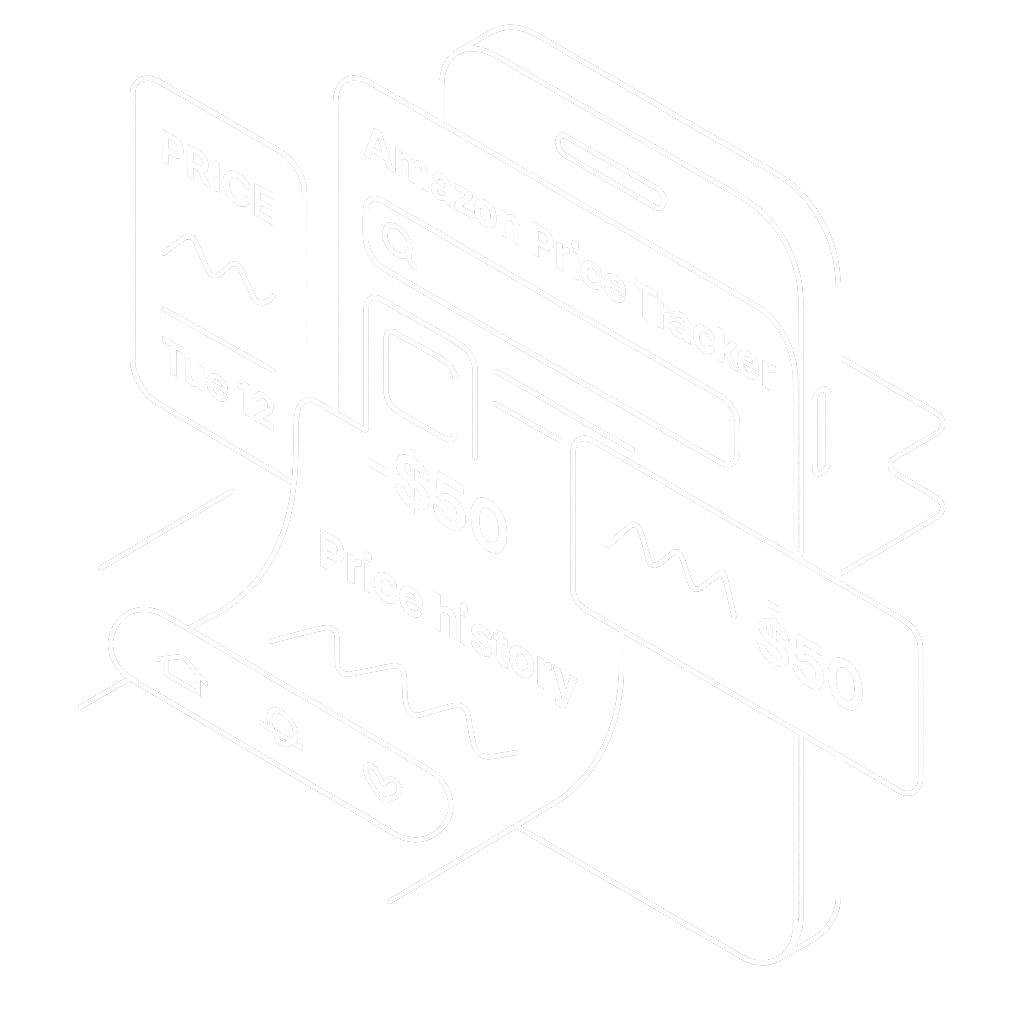
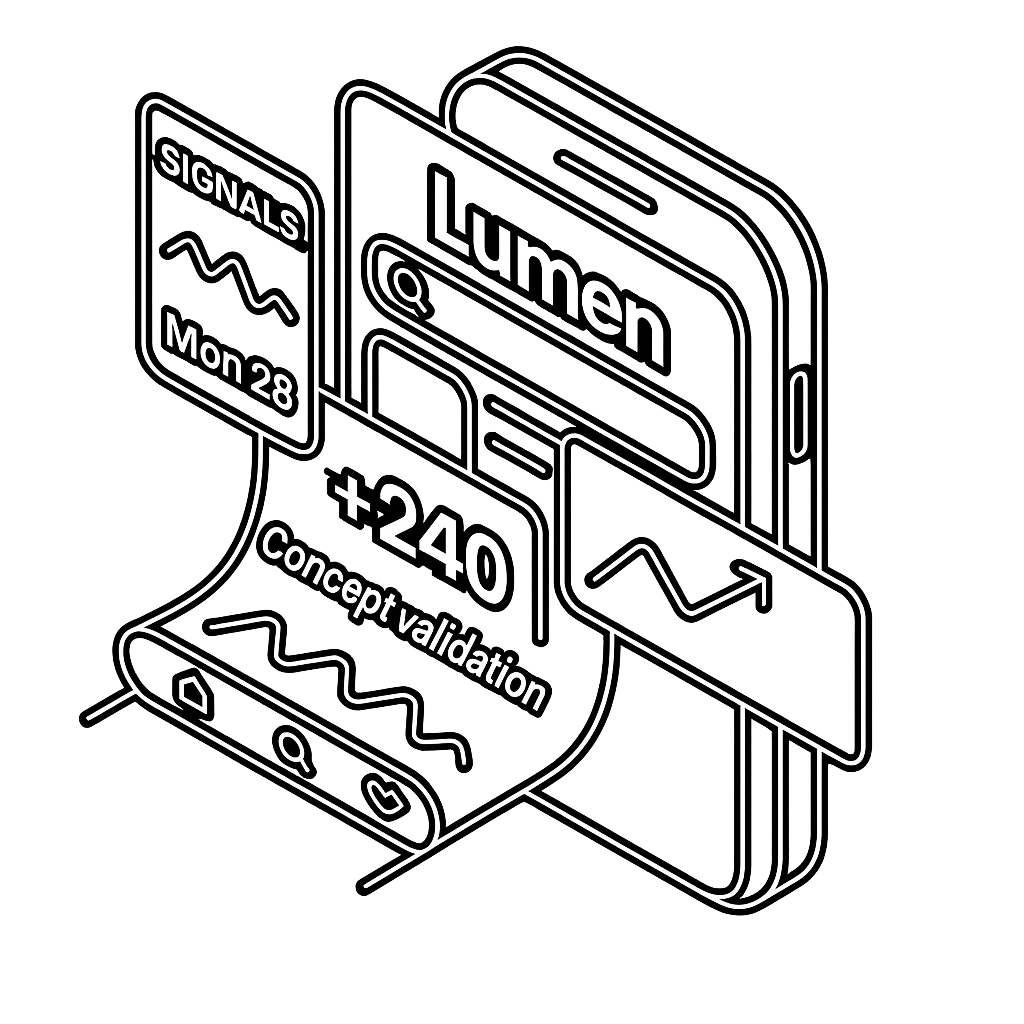
Change app concept to startup validator and change homepage

Changed region(s): [[0.0625, 0.0312, 0.875, 0.9062]]

diff --git a/home/templates/home/index.html b/home/templates/home/index.html
@@ -8,19 +8,22 @@
 {% block content %}
     <div class="home_hero">
         <div class="navbar">
-            <a href="#about"> Register </a>
-            <a href="#place"> Why use us </a>
-            <a href="https://github.com/AndyMasc/Amazon-Web-Scraper---Price-Tracker"> GitHub </a>
+            <a href="{% url 'authenticate:register' %}"> Register </a>
+            <a href="#place"> About </a>
+            <a href="https://github.com/AndyMasc/Price-Tracker"> GitHub </a>
             <a href="#dest"> Privacy </a>
         </div>
         <div class="hero-text-section">
-            <h1> Make <i> every </i> day Prime day with <span style="color:#ffb370"> Price Ping. </span> </h1>
-            <p> Track the prices of your favourite Amazon products effortlessly, and instantly get notified when their prices drop. <b> Never miss a deal again. </b> </p>
+            <h1> Lumen delivers early clarity for bold startups </h1>
+            <p> Lumen is a platform that quietly analyzes your startup ideas against the competition, to deliver clarity before commitment. </b> </p>
 
             <div class="CTA-button">
                 <a href="#about"> Start saving </a>
             </div>
         </div>
         <img src="{% static 'home/images/HeroImg.png' %}" alt="Demo Image">
+    </div>
+    <div class="ScrollDown">
+        <img src="{% static 'home/images/DownArrow.png' %}" alt="Scroll Down">
     </div>
 {% endblock %}

diff --git a/home/static/home/css/style.css b/home/static/home/css/style.css
@@ -7,12 +7,13 @@ body {
     position: fixed;
     background-color: black;
     width: 100%;
-    height: 8%;
+    height: 7%;
     justify-content: center;
     align-items: center;
     gap: 5%;
     top: 0;
     left: 0;
+    border-bottom: solid #303030;
 }
 
 .navbar a {
@@ -46,7 +47,7 @@ body {
 .home_hero h1 {
     font-family: Poppins;
     font-size: 55px;
-    font-weight: 600;
+    font-weight: 550;
     color: WhiteSmoke;
 }
 
@@ -63,7 +64,7 @@ body {
 .CTA-button {
     position: relative;
     display: flex;
-    margin-top: 6%;
+    margin-top: 7%;
 }
 
 .CTA-button a {
@@ -86,4 +87,35 @@ body {
 img {
     width: 40%;
     pointer-events: none;
+}
+
+.ScrollDown {
+    position: absolute;
+    width: 100%;
+    display: flex;
+    left: 0;
+    bottom: 0;
+    justify-content: center;
+    align-items: center;
+    margin-bottom: 5%;
+}
+
+.ScrollDown img {
+    width: 45px;
+    animation: bobbing 1.4s linear infinite;
+}
+
+@keyframes bobbing {
+    0% {
+        transform: translateY(0px);
+        animation-timing-function: ease-out;
+    }
+    50% {
+        transform: translateY(10px);
+        animation-timing-function: ease-in;
+    }
+    100% {
+        transform: translateY(0px);
+        animation-timing-function: ease-out
+    }
 }

diff --git a/authenticate/templates/authenticate/register.html b/authenticate/templates/authenticate/register.html
@@ -1,17 +1,27 @@
 {% extends 'base.html' %}
 
 {% block head %}
+    {% load static %}
 
+    <link rel="stylesheet"  href="{% static 'authenticate/css/register.css' %}">
 {% endblock %}
 
 {% block content %}
-    <div class="home_hero">
-        <h1> Register </h1>
+    <div class="title">
+        <h1> <span style="color:WhiteSmoke"> Create an account </span> </h1>
     </div>
-
-    <form method="POST" action="">
-        {% csrf_token %}
-        {{ form.as_p }}
-        <input type="submit" name="Register account">
-    </form>
+    <div class="container">
+        <div class="form">
+            <form method="POST" action="">
+                {% csrf_token %}
+                {% for field in form %}
+                    <h3> {{ field.label }} </h3>
+                    {{ field }}
+                {% endfor %}
+            </form>
+            {{ form.errors }}
+            <input type="submit" value="Register account">
+            <a href="{% url 'authenticate:login' %}"> <span style="color:WhiteSmoke"> Already registered? Log In </span> </a>
+        </div>
+    </div>
 {% endblock %}

diff --git a/templates/base.html b/templates/base.html
@@ -5,7 +5,7 @@
     <meta name="viewport"
           content="width=device-width, user-scalable=no, initial-scale=1.0, maximum-scale=1.0, minimum-scale=1.0">
     <meta http-equiv="X-UA-Compatible" content="ie=edge">
-    <title> Price Ping </title>
+    <title> Lumen </title>
 
     <style>
         @import url('https://fonts.googleapis.com/css2?family=Poppins:ital,wght@0,100;0,200;0,300;0,400;0,500;0,600;0,700;0,800;0,900;1,100;1,200;1,300;1,400;1,500;1,600;1,700;1,800;1,900&display=swap');

diff --git a/authenticate/static/authenticate/css/register.css b/authenticate/static/authenticate/css/register.css
@@ -1,0 +1,28 @@
+body {
+    background-color: black;
+    font-family: Poppins;
+}
+
+.container {
+    width: 100%;
+    height: 100%;
+    position: fixed;
+    top: 0;
+    left: 0;
+}
+
+.title {
+    position: fixed;
+    display: flex;
+    width: 100%;
+    justify-content: center;
+    align-items: center;
+    height: 8%;
+    border: dashed white;
+}
+
+.title h1 {
+    color: WhiteSmoke;
+    font-weight: 550;
+    font-size: 55px;
+}

diff --git a/authenticate/views.py b/authenticate/views.py
@@ -1,4 +1,4 @@
-from django.shortcuts import render, HttpResponse
+from django.shortcuts import render, HttpResponse, redirect
 
 # Create your views here.
 from django.contrib.auth.forms import UserCreationForm
@@ -12,7 +12,9 @@ def register(request):
         form = CreateUserForm(request.POST)
         if form.is_valid():
             form.save()
-
+            return redirect('authenticate:login')
+        else:
+            return render(request, 'authenticate/register.html', context)
     return render(request, 'authenticate/register.html', context)
 
 def login(request):

diff --git a/PriceTracker/settings.py b/PriceTracker/settings.py
@@ -44,6 +44,7 @@ INSTALLED_APPS = [
     'django.contrib.messages',
     'django.contrib.staticfiles',
 
+    'django_browser_reload',
     'home.apps.HomeConfig',
     'authenticate.apps.AuthenticateConfig',
 ]
@@ -56,6 +57,8 @@ MIDDLEWARE = [
     'django.contrib.auth.middleware.AuthenticationMiddleware',
     'django.contrib.messages.middleware.MessageMiddleware',
     'django.middleware.clickjacking.XFrameOptionsMiddleware',
+
+    "django_browser_reload.middleware.BrowserReloadMiddleware",
 ]
 
 ROOT_URLCONF = 'PriceTracker.urls'

diff --git a/authenticate/forms.py b/authenticate/forms.py
@@ -6,6 +6,7 @@ from django import forms
 from django.contrib.auth.models import User
 
 class CreateUserForm(UserCreationForm):
+    email = forms.EmailField(required=True)
     class Meta:
         model = User
-        fields = ['username', 'email', 'password1', 'password2']
+        fields = ['username', 'email', 'password1']

diff --git a/PriceTracker/urls.py b/PriceTracker/urls.py
@@ -21,4 +21,6 @@ urlpatterns = [
     path('admin/', admin.site.urls),
     path('', include('home.urls')),
     path('authenticate/', include('authenticate.urls')),
+
+    path("__reload__/", include("django_browser_reload.urls")),
 ]
